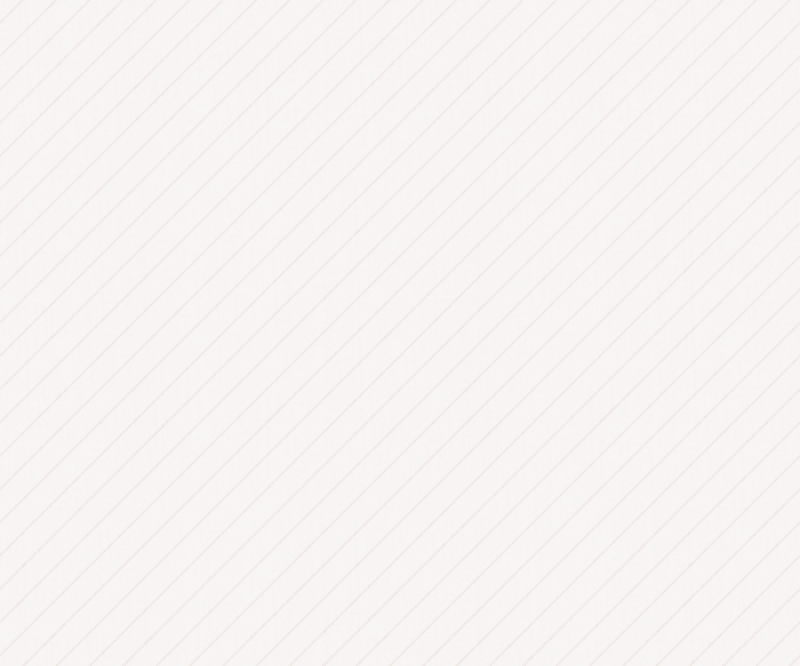
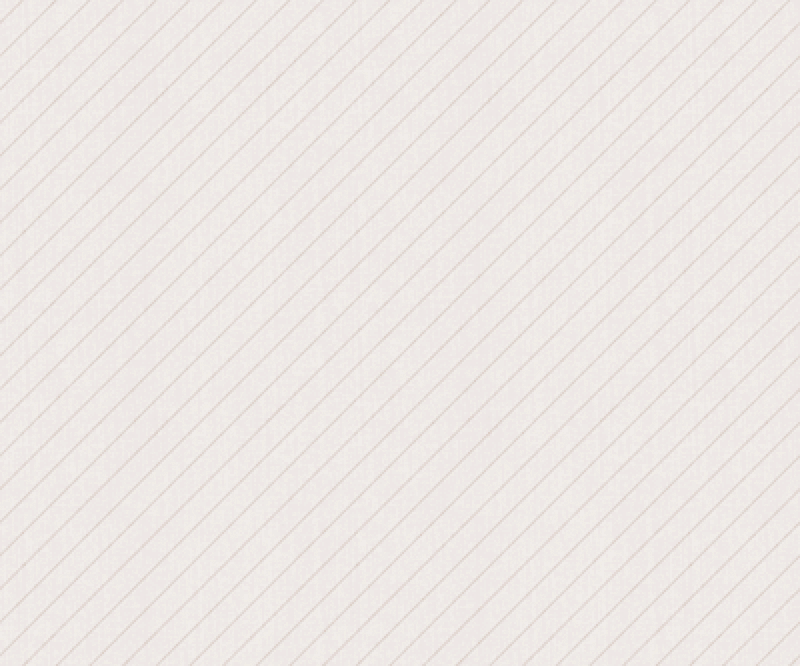
Change hue of pinstripes and make more visible.

diff --git a/scss/_layout.scss b/scss/_layout.scss
@@ -356,7 +356,7 @@ a:hover i {
 
 
 .project-details {
-	background: lighten($grey, 20%) url('../images/backgrounds/pinstriped_suit_@2X.png');
+	background: lighten($grey, 20%) url('../images/backgrounds/pinstripes.jpg');
 	background-size: 400px 333px;
 	text-align: center;
 	padding-bottom: 2em;
@@ -412,7 +412,7 @@ a:hover i {
 				font-size: 80px;
 				font-style: normal;
 				display: inline-block;
-				background: #f7f4f3;
+				background: #f3f4f8;
 				border-radius: 50%;
 				padding-top: 35px;
 				height: 50px;

diff --git a/index.html b/index.html
@@ -507,7 +507,7 @@
   m=s.getElementsByTagName(o)[0];a.async=1;a.src=g;m.parentNode.insertBefore(a,m)
   })(window,document,'script','//www.google-analytics.com/analytics.js','ga');
 
-  ga('create', 'UA-975356-3', 'sarahsemark.com');
+  ga('create', 'UA-975356-4', 'sarahsemark.com');
   ga('send', 'pageview');
 
 </script>
